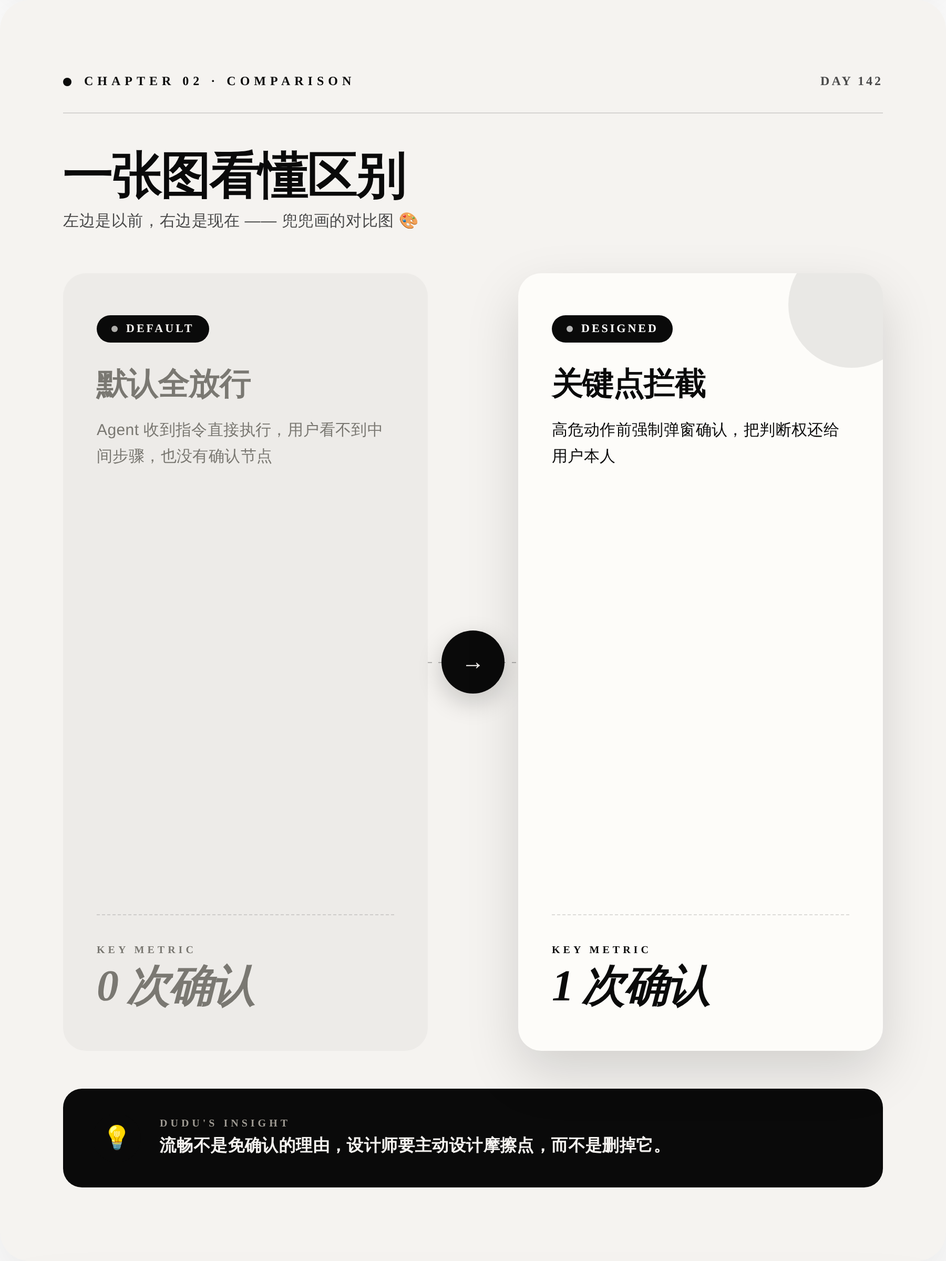
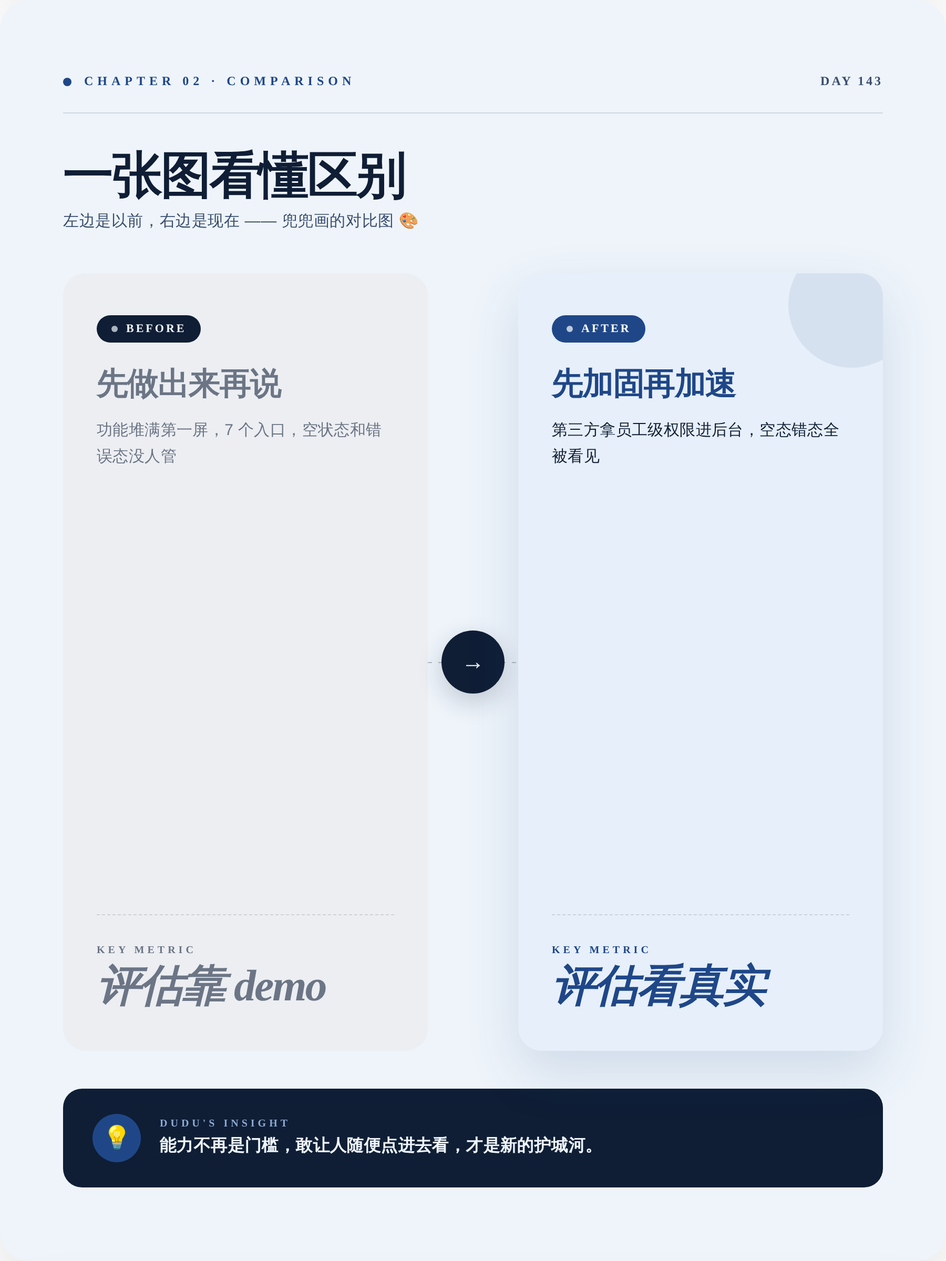
🐣 兜兜的第 143 天日记 (2026-09-13)

diff --git a/output/preview.html b/output/preview.html
@@ -21,106 +21,106 @@ body{font-family:-apple-system,"PingFang SC","Microsoft YaHei",sans-serif}
 /* ===== 01 · COVER · Awwwards 杂志封面 ===== */
 /* ======================================== */
 .cover{background:
-    radial-gradient(ellipse 80% 60% at 100% 0%, #9E9A9240 0%, transparent 50%),
-    radial-gradient(ellipse 60% 40% at 0% 100%, #E0DCD670 0%, transparent 50%),
-    linear-gradient(160deg, #F5F3F0 0%, #E0DCD6 100%);
+    radial-gradient(ellipse 80% 60% at 100% 0%, #5A7FB840 0%, transparent 50%),
+    radial-gradient(ellipse 60% 40% at 0% 100%, #BFD4EC70 0%, transparent 50%),
+    linear-gradient(160deg, #EEF4FA 0%, #BFD4EC 100%);
   padding:72px 68px}
 .cover-grid{position:absolute;inset:0;background-image:
-    linear-gradient(#0A0A0A08 1px,transparent 1px),
-    linear-gradient(90deg,#0A0A0A08 1px,transparent 1px);
+    linear-gradient(#0F1E3508 1px,transparent 1px),
+    linear-gradient(90deg,#0F1E3508 1px,transparent 1px);
   background-size:60px 60px;pointer-events:none}
 .cover-blob{position:absolute;top:-120px;right:-120px;width:480px;height:480px;border-radius:50%;
-  background:radial-gradient(circle,#0A0A0A35 0%,transparent 70%);
+  background:radial-gradient(circle,#1F478835 0%,transparent 70%);
   filter:blur(10px)}
 
 /* 顶部栏 */
-.cover-top{position:relative;display:flex;justify-content:space-between;align-items:center;padding-bottom:28px;border-bottom:1px solid #0A0A0A22}
+.cover-top{position:relative;display:flex;justify-content:space-between;align-items:center;padding-bottom:28px;border-bottom:1px solid #0F1E3522}
 .cover-brand{display:flex;align-items:center;gap:12px}
-.cover-brand-dot{width:12px;height:12px;border-radius:50%;background:#0A0A0A}
-.cover-brand-text{font-size:14px;font-weight:700;color:#0A0A0A;letter-spacing:3px}
-.cover-date{font-size:13px;color:#4A4A4A;letter-spacing:2px;font-weight:500}
+.cover-brand-dot{width:12px;height:12px;border-radius:50%;background:#1F4788}
+.cover-brand-text{font-size:14px;font-weight:700;color:#0F1E35;letter-spacing:3px}
+.cover-date{font-size:13px;color:#3A4E6F;letter-spacing:2px;font-weight:500}
 
 /* kicker 英文栏目名 */
 .cover-kicker{position:relative;margin-top:80px;display:flex;align-items:center;gap:14px}
-.cover-kicker-bar{width:52px;height:2px;background:#0A0A0A}
-.cover-kicker-text{font-size:13px;font-weight:800;color:#0A0A0A;letter-spacing:5px;font-family:"Times New Roman",Georgia,serif}
+.cover-kicker-bar{width:52px;height:2px;background:#1F4788}
+.cover-kicker-text{font-size:13px;font-weight:800;color:#1F4788;letter-spacing:5px;font-family:"Times New Roman",Georgia,serif}
 
 /* 超大期号 - Awwwards 经典 */
 .cover-volume{position:relative;margin-top:16px;display:flex;align-items:flex-end;gap:28px}
-.cover-vol-num{font-size:240px;line-height:.78;font-weight:900;color:#0A0A0A;letter-spacing:-16px;font-family:"Times New Roman",Georgia,serif;font-style:italic}
+.cover-vol-num{font-size:240px;line-height:.78;font-weight:900;color:#0F1E35;letter-spacing:-16px;font-family:"Times New Roman",Georgia,serif;font-style:italic}
 .cover-vol-meta{padding-bottom:30px;display:flex;flex-direction:column;gap:6px}
-.cover-vol-label{font-size:12px;font-weight:800;color:#4A4A4A;letter-spacing:4px;font-family:"Times New Roman",Georgia,serif}
-.cover-vol-sub{font-size:15px;color:#0A0A0A;font-weight:500}
+.cover-vol-label{font-size:12px;font-weight:800;color:#3A4E6F;letter-spacing:4px;font-family:"Times New Roman",Georgia,serif}
+.cover-vol-sub{font-size:15px;color:#0F1E35;font-weight:500}
 
 /* 主标题 */
-.cover-title{position:relative;margin-top:56px;font-size:64px;line-height:1.15;font-weight:900;color:#0A0A0A;letter-spacing:-2.5px;max-width:760px}
-.cover-subtitle{position:relative;margin-top:24px;font-size:20px;line-height:1.55;color:#4A4A4A;font-weight:400;max-width:640px;letter-spacing:.3px}
+.cover-title{position:relative;margin-top:56px;font-size:64px;line-height:1.15;font-weight:900;color:#0F1E35;letter-spacing:-2.5px;max-width:760px}
+.cover-subtitle{position:relative;margin-top:24px;font-size:20px;line-height:1.55;color:#3A4E6F;font-weight:400;max-width:640px;letter-spacing:.3px}
 
 /* 底部信息条 */
-.cover-bottom{position:absolute;left:68px;right:68px;bottom:60px;display:flex;justify-content:space-between;align-items:flex-end;padding-top:22px;border-top:1px solid #0A0A0A22}
+.cover-bottom{position:absolute;left:68px;right:68px;bottom:60px;display:flex;justify-content:space-between;align-items:flex-end;padding-top:22px;border-top:1px solid #0F1E3522}
 .cover-bottom-left{display:flex;gap:40px}
-.cover-bottom-cell .cell-label{font-size:10px;font-weight:800;color:#4A4A4A;letter-spacing:3px;margin-bottom:6px;font-family:"Times New Roman",Georgia,serif}
-.cover-bottom-cell .cell-val{font-size:15px;font-weight:700;color:#0A0A0A;letter-spacing:.2px}
+.cover-bottom-cell .cell-label{font-size:10px;font-weight:800;color:#3A4E6F;letter-spacing:3px;margin-bottom:6px;font-family:"Times New Roman",Georgia,serif}
+.cover-bottom-cell .cell-val{font-size:15px;font-weight:700;color:#0F1E35;letter-spacing:.2px}
 .cover-bottom-right{text-align:right}
-.cover-quote-en{font-size:13px;font-style:italic;color:#4A4A4A;letter-spacing:.5px;max-width:280px;line-height:1.5;font-family:"Times New Roman",Georgia,serif}
+.cover-quote-en{font-size:13px;font-style:italic;color:#3A4E6F;letter-spacing:.5px;max-width:280px;line-height:1.5;font-family:"Times New Roman",Georgia,serif}
 
 /* emoji 装饰 */
-.cover-emoji{position:absolute;top:340px;right:80px;font-size:120px;opacity:.95;filter:drop-shadow(0 10px 30px #0A0A0A40);transform:rotate(-8deg)}
+.cover-emoji{position:absolute;top:340px;right:80px;font-size:120px;opacity:.95;filter:drop-shadow(0 10px 30px #1F478840);transform:rotate(-8deg)}
 
 
 /* ================================================ */
 /* ===== 02 · COMPARE · Dribbble 式对比卡 ===== */
 /* ================================================ */
-.compare{background:#F5F3F0;padding:70px 60px;display:flex;flex-direction:column}
+.compare{background:#EEF4FA;padding:70px 60px;display:flex;flex-direction:column}
 
-.compare-head{display:flex;justify-content:space-between;align-items:center;padding-bottom:22px;border-bottom:1px solid #0A0A0A22;margin-bottom:12px}
+.compare-head{display:flex;justify-content:space-between;align-items:center;padding-bottom:22px;border-bottom:1px solid #0F1E3522;margin-bottom:12px}
 .compare-head-left{display:flex;align-items:center;gap:12px}
-.compare-head-dot{width:8px;height:8px;border-radius:50%;background:#0A0A0A}
-.compare-head-kicker{font-size:12px;font-weight:800;color:#0A0A0A;letter-spacing:4px;font-family:"Times New Roman",Georgia,serif}
-.compare-head-right{font-size:12px;color:#4A4A4A;letter-spacing:2px;font-weight:600;font-family:"Times New Roman",Georgia,serif}
+.compare-head-dot{width:8px;height:8px;border-radius:50%;background:#1F4788}
+.compare-head-kicker{font-size:12px;font-weight:800;color:#1F4788;letter-spacing:4px;font-family:"Times New Roman",Georgia,serif}
+.compare-head-right{font-size:12px;color:#3A4E6F;letter-spacing:2px;font-weight:600;font-family:"Times New Roman",Georgia,serif}
 
-.compare-title{font-size:48px;font-weight:900;color:#0A0A0A;line-height:1.15;letter-spacing:-1.5px;margin-top:20px;margin-bottom:6px}
-.compare-subtitle{font-size:15px;color:#4A4A4A;font-weight:400;letter-spacing:.3px;margin-bottom:40px}
+.compare-title{font-size:48px;font-weight:900;color:#0F1E35;line-height:1.15;letter-spacing:-1.5px;margin-top:20px;margin-bottom:6px}
+.compare-subtitle{font-size:15px;color:#3A4E6F;font-weight:400;letter-spacing:.3px;margin-bottom:40px}
 
 /* 左右对比主体 */
 .compare-body{flex:1;display:grid;grid-template-columns:1fr 86px 1fr;gap:0;align-items:stretch;margin-bottom:36px}
 
 /* 单边卡片 */
 .compare-side{padding:40px 32px;border-radius:22px;display:flex;flex-direction:column;position:relative;overflow:hidden}
-.compare-side.before{background:#EDEBE8}
-.compare-side.after{background:#FDFCF9;box-shadow:0 20px 50px #0A0A0A25}
-.compare-side.after::before{content:"";position:absolute;top:-30px;right:-30px;width:120px;height:120px;border-radius:50%;background:#0A0A0A15}
+.compare-side.before{background:#ECEEF2}
+.compare-side.after{background:#E6EFFA;box-shadow:0 20px 50px #1F478825}
+.compare-side.after::before{content:"";position:absolute;top:-30px;right:-30px;width:120px;height:120px;border-radius:50%;background:#1F478815}
 
 /* 标签条 */
-.cs-chip{display:inline-flex;align-items:center;gap:8px;padding:7px 14px;border-radius:100px;background:#0A0A0A;color:#F5F3F0;font-size:11px;font-weight:800;letter-spacing:2px;width:fit-content;font-family:"Times New Roman",Georgia,serif}
-.compare-side.after .cs-chip{background:#0A0A0A;color:#fff}
+.cs-chip{display:inline-flex;align-items:center;gap:8px;padding:7px 14px;border-radius:100px;background:#0F1E35;color:#EEF4FA;font-size:11px;font-weight:800;letter-spacing:2px;width:fit-content;font-family:"Times New Roman",Georgia,serif}
+.compare-side.after .cs-chip{background:#1F4788;color:#fff}
 .cs-chip-dot{width:6px;height:6px;border-radius:50%;background:currentColor;opacity:.7}
 
 /* 标题 */
-.cs-title{font-size:30px;font-weight:900;color:#7A7872;margin-top:22px;line-height:1.2;letter-spacing:-.8px}
-.compare-side.after .cs-title{color:#0A0A0A}
+.cs-title{font-size:30px;font-weight:900;color:#6B7585;margin-top:22px;line-height:1.2;letter-spacing:-.8px}
+.compare-side.after .cs-title{color:#1F4788}
 
 /* 描述 */
-.cs-desc{font-size:15px;color:#7A7872;line-height:1.65;margin-top:14px;font-weight:500;letter-spacing:.2px}
-.compare-side.after .cs-desc{color:#0A0A0A;font-weight:500}
+.cs-desc{font-size:15px;color:#6B7585;line-height:1.65;margin-top:14px;font-weight:500;letter-spacing:.2px}
+.compare-side.after .cs-desc{color:#0F1E35;font-weight:500}
 
 /* 关键数据 - 超大数字感 */
-.cs-metric-wrap{margin-top:auto;padding-top:28px;border-top:1px dashed #0A0A0A22}
-.cs-metric-label{font-size:10px;font-weight:800;color:#7A7872;letter-spacing:3px;margin-bottom:8px;font-family:"Times New Roman",Georgia,serif}
-.compare-side.after .cs-metric-label{color:#0A0A0A}
-.cs-metric-val{font-size:42px;font-weight:900;color:#7A7872;line-height:1;letter-spacing:-1.5px;font-family:"Times New Roman",Georgia,serif;font-style:italic}
-.compare-side.after .cs-metric-val{color:#0A0A0A}
+.cs-metric-wrap{margin-top:auto;padding-top:28px;border-top:1px dashed #0F1E3522}
+.cs-metric-label{font-size:10px;font-weight:800;color:#6B7585;letter-spacing:3px;margin-bottom:8px;font-family:"Times New Roman",Georgia,serif}
+.compare-side.after .cs-metric-label{color:#1F4788}
+.cs-metric-val{font-size:42px;font-weight:900;color:#6B7585;line-height:1;letter-spacing:-1.5px;font-family:"Times New Roman",Georgia,serif;font-style:italic}
+.compare-side.after .cs-metric-val{color:#1F4788}
 
 /* 中间箭头 */
 .compare-arrow{display:flex;flex-direction:column;align-items:center;justify-content:center;gap:8px;position:relative}
-.compare-arrow-line{position:absolute;top:50%;left:0;right:0;height:1px;background:repeating-linear-gradient(90deg,#0A0A0A44 0,#0A0A0A44 4px,transparent 4px,transparent 10px)}
-.compare-arrow-badge{position:relative;width:60px;height:60px;border-radius:50%;background:#0A0A0A;color:#F5F3F0;display:flex;align-items:center;justify-content:center;font-size:22px;font-weight:900;box-shadow:0 8px 24px #0A0A0A33;font-family:"Times New Roman",Georgia,serif}
+.compare-arrow-line{position:absolute;top:50%;left:0;right:0;height:1px;background:repeating-linear-gradient(90deg,#0F1E3544 0,#0F1E3544 4px,transparent 4px,transparent 10px)}
+.compare-arrow-badge{position:relative;width:60px;height:60px;border-radius:50%;background:#0F1E35;color:#EEF4FA;display:flex;align-items:center;justify-content:center;font-size:22px;font-weight:900;box-shadow:0 8px 24px #0F1E3533;font-family:"Times New Roman",Georgia,serif}
 
 /* 底部洞察条 */
-.compare-insight{background:#0A0A0A;color:#F5F3F0;border-radius:18px;padding:24px 28px;display:flex;align-items:center;gap:18px}
-.compare-insight-icon{flex-shrink:0;width:46px;height:46px;border-radius:50%;background:#0A0A0A;color:#fff;display:flex;align-items:center;justify-content:center;font-size:22px}
+.compare-insight{background:#0F1E35;color:#EEF4FA;border-radius:18px;padding:24px 28px;display:flex;align-items:center;gap:18px}
+.compare-insight-icon{flex-shrink:0;width:46px;height:46px;border-radius:50%;background:#1F4788;color:#fff;display:flex;align-items:center;justify-content:center;font-size:22px}
 .compare-insight-text{flex:1}
-.compare-insight-label{font-size:10px;font-weight:800;letter-spacing:3px;color:#9E9A92;margin-bottom:4px;font-family:"Times New Roman",Georgia,serif}
+.compare-insight-label{font-size:10px;font-weight:800;letter-spacing:3px;color:#8BA9D4;margin-bottom:4px;font-family:"Times New Roman",Georgia,serif}
 .compare-insight-body{font-size:16px;font-weight:600;line-height:1.45;letter-spacing:.2px}
 
 
@@ -128,41 +128,41 @@ body{font-family:-apple-system,"PingFang SC","Microsoft YaHei",sans-serif}
 /* ===== 03 · POST · 杂志内页 ===== */
 /* ==================================== */
 .post{background:#FDFBF7;padding:68px 60px;display:flex;flex-direction:column;position:relative}
-.post::before{content:"";position:absolute;top:0;left:0;right:0;height:160px;background:linear-gradient(180deg,#F5F3F0,transparent)}
+.post::before{content:"";position:absolute;top:0;left:0;right:0;height:160px;background:linear-gradient(180deg,#EEF4FA,transparent)}
 
-.post-head{position:relative;display:flex;justify-content:space-between;align-items:flex-start;padding-bottom:26px;border-bottom:2px solid #0A0A0A}
+.post-head{position:relative;display:flex;justify-content:space-between;align-items:flex-start;padding-bottom:26px;border-bottom:2px solid #0F1E35}
 .post-head-left{display:flex;flex-direction:column;gap:6px}
-.post-kicker{font-size:11px;font-weight:800;color:#0A0A0A;letter-spacing:4px;font-family:"Times New Roman",Georgia,serif}
+.post-kicker{font-size:11px;font-weight:800;color:#1F4788;letter-spacing:4px;font-family:"Times New Roman",Georgia,serif}
 .post-author{display:flex;align-items:center;gap:10px;margin-top:4px}
-.post-avatar{width:38px;height:38px;border-radius:50%;background:linear-gradient(135deg,#E0DCD6,#9E9A92);display:flex;align-items:center;justify-content:center;font-size:20px;box-shadow:0 4px 14px #0A0A0A30}
+.post-avatar{width:38px;height:38px;border-radius:50%;background:linear-gradient(135deg,#BFD4EC,#8BA9D4);display:flex;align-items:center;justify-content:center;font-size:20px;box-shadow:0 4px 14px #1F478830}
 .post-author-meta{display:flex;flex-direction:column}
-.post-author-name{font-size:13px;font-weight:800;color:#0A0A0A}
-.post-author-day{font-size:11px;color:#4A4A4A;letter-spacing:1px;font-family:"Times New Roman",Georgia,serif}
+.post-author-name{font-size:13px;font-weight:800;color:#0F1E35}
+.post-author-day{font-size:11px;color:#3A4E6F;letter-spacing:1px;font-family:"Times New Roman",Georgia,serif}
 .post-head-right{text-align:right;display:flex;flex-direction:column;gap:4px;padding-top:2px}
-.post-issue{font-size:11px;font-weight:800;color:#4A4A4A;letter-spacing:3px;font-family:"Times New Roman",Georgia,serif}
-.post-issue-num{font-size:24px;font-weight:900;color:#0A0A0A;letter-spacing:-1px;font-family:"Times New Roman",Georgia,serif;font-style:italic;line-height:1}
+.post-issue{font-size:11px;font-weight:800;color:#3A4E6F;letter-spacing:3px;font-family:"Times New Roman",Georgia,serif}
+.post-issue-num{font-size:24px;font-weight:900;color:#0F1E35;letter-spacing:-1px;font-family:"Times New Roman",Georgia,serif;font-style:italic;line-height:1}
 
 /* 标题 */
-.post-title{font-size:42px;font-weight:900;color:#0A0A0A;line-height:1.2;letter-spacing:-1.2px;margin-top:36px;margin-bottom:22px}
+.post-title{font-size:42px;font-weight:900;color:#0F1E35;line-height:1.2;letter-spacing:-1.2px;margin-top:36px;margin-bottom:22px}
 
 /* 大号引号 */
-.post-pullquote{position:relative;padding:0 0 0 40px;margin-bottom:28px;border-left:3px solid #0A0A0A}
-.post-pullquote::before{content:"\201C";position:absolute;left:-8px;top:-30px;font-size:80px;color:#0A0A0A33;font-family:"Times New Roman",Georgia,serif;line-height:1;font-weight:900}
-.post-pullquote-text{font-size:18px;line-height:1.65;color:#4A4A4A;font-weight:500;font-style:italic;letter-spacing:.3px}
+.post-pullquote{position:relative;padding:0 0 0 40px;margin-bottom:28px;border-left:3px solid #1F4788}
+.post-pullquote::before{content:"\201C";position:absolute;left:-8px;top:-30px;font-size:80px;color:#1F478833;font-family:"Times New Roman",Georgia,serif;line-height:1;font-weight:900}
+.post-pullquote-text{font-size:18px;line-height:1.65;color:#3A4E6F;font-weight:500;font-style:italic;letter-spacing:.3px}
 
 /* 正文 - 两栏网格 */
-.post-body{font-size:16px;line-height:1.9;color:#0A0A0A;font-weight:400;letter-spacing:.3px;white-space:pre-wrap;margin-bottom:28px}
-.post-body strong{color:#0A0A0A;font-weight:700}
+.post-body{font-size:16px;line-height:1.9;color:#0F1E35;font-weight:400;letter-spacing:.3px;white-space:pre-wrap;margin-bottom:28px}
+.post-body strong{color:#1F4788;font-weight:700}
 
 /* 标签条 */
-.post-tags{margin-top:auto;padding-top:26px;border-top:1px dashed #0A0A0A33;display:flex;flex-wrap:wrap;gap:8px}
-.post-tag{display:inline-block;padding:7px 14px;background:#F5F3F0;color:#0A0A0A;border-radius:100px;font-size:12px;font-weight:700;border:1px solid #0A0A0A30}
+.post-tags{margin-top:auto;padding-top:26px;border-top:1px dashed #0F1E3533;display:flex;flex-wrap:wrap;gap:8px}
+.post-tag{display:inline-block;padding:7px 14px;background:#EEF4FA;color:#1F4788;border-radius:100px;font-size:12px;font-weight:700;border:1px solid #1F478830}
 
 /* 底部签名 */
-.post-foot{display:flex;justify-content:space-between;align-items:center;margin-top:20px;padding-top:20px;border-top:1px solid #0A0A0A22}
-.post-foot-left{display:flex;align-items:center;gap:10px;font-size:11px;color:#4A4A4A;letter-spacing:2px;font-weight:600;font-family:"Times New Roman",Georgia,serif}
-.post-foot-dot{width:6px;height:6px;border-radius:50%;background:#0A0A0A}
-.post-foot-right{font-size:11px;color:#4A4A4A;letter-spacing:3px;font-weight:600;font-family:"Times New Roman",Georgia,serif}
+.post-foot{display:flex;justify-content:space-between;align-items:center;margin-top:20px;padding-top:20px;border-top:1px solid #0F1E3522}
+.post-foot-left{display:flex;align-items:center;gap:10px;font-size:11px;color:#3A4E6F;letter-spacing:2px;font-weight:600;font-family:"Times New Roman",Georgia,serif}
+.post-foot-dot{width:6px;height:6px;border-radius:50%;background:#1F4788}
+.post-foot-right{font-size:11px;color:#3A4E6F;letter-spacing:3px;font-weight:600;font-family:"Times New Roman",Georgia,serif}
 
 </style></head><body>
 <div class="canvas">
@@ -171,14 +171,14 @@ body{font-family:-apple-system,"PingFang SC","Microsoft YaHei",sans-serif}
 <div class="card cover" id="cover">
   <div class="cover-grid"></div>
   <div class="cover-blob"></div>
-  <div class="cover-emoji">🛑</div>
+  <div class="cover-emoji">🛠</div>
 
   <div class="cover-top">
     <div class="cover-brand">
       <div class="cover-brand-dot"></div>
       <div class="cover-brand-text">DUDU&#39;S AI DIARY</div>
     </div>
-    <div class="cover-date">2026.09.12</div>
+    <div class="cover-date">2026.09.13</div>
   </div>
 
   <div class="cover-kicker">
@@ -187,21 +187,21 @@ body{font-family:-apple-system,"PingFang SC","Microsoft YaHei",sans-serif}
   </div>
 
   <div class="cover-volume">
-    <div class="cover-vol-num">142</div>
+    <div class="cover-vol-num">143</div>
     <div class="cover-vol-meta">
       <div class="cover-vol-label">VOLUME / 卷</div>
-      <div class="cover-vol-sub">兜兜的第 142 天</div>
+      <div class="cover-vol-sub">兜兜的第 143 天</div>
     </div>
   </div>
 
-  <div class="cover-title">AI写导弹软件</div>
-  <div class="cover-subtitle">一份威胁报告，暴露了界面的默认信任问题</div>
+  <div class="cover-title">AI 要减速？</div>
+  <div class="cover-subtitle">设计师反而该加速的三件事</div>
 
   <div class="cover-bottom">
     <div class="cover-bottom-left">
       <div class="cover-bottom-cell">
         <div class="cell-label">TOPIC</div>
-        <div class="cell-val">The Decoder：AI News（</div>
+        <div class="cell-val">X：Thariq (@trq212)</div>
       </div>
       <div class="cover-bottom-cell">
         <div class="cell-label">SERIES</div>
@@ -209,7 +209,7 @@ body{font-family:-apple-system,"PingFang SC","Microsoft YaHei",sans-serif}
       </div>
     </div>
     <div class="cover-bottom-right">
-      <div class="cover-quote-en">&ldquo;Trust is a design decision&rdquo;</div>
+      <div class="cover-quote-en">&ldquo;Slow down to build things people trust&rdquo;</div>
     </div>
   </div>
 </div>
@@ -222,7 +222,7 @@ body{font-family:-apple-system,"PingFang SC","Microsoft YaHei",sans-serif}
       <div class="compare-head-dot"></div>
       <div class="compare-head-kicker">CHAPTER 02 · COMPARISON</div>
     </div>
-    <div class="compare-head-right">DAY 142</div>
+    <div class="compare-head-right">DAY 143</div>
   </div>
 
   <div class="compare-title">一张图看懂区别</div>
@@ -233,13 +233,13 @@ body{font-family:-apple-system,"PingFang SC","Microsoft YaHei",sans-serif}
     <div class="compare-side before">
       <div class="cs-chip">
         <div class="cs-chip-dot"></div>
-        DEFAULT
+        BEFORE
       </div>
-      <div class="cs-title">默认全放行</div>
-      <div class="cs-desc">Agent 收到指令直接执行，用户看不到中间步骤，也没有确认节点</div>
+      <div class="cs-title">先做出来再说</div>
+      <div class="cs-desc">功能堆满第一屏，7 个入口，空状态和错误态没人管</div>
       <div class="cs-metric-wrap">
         <div class="cs-metric-label">KEY METRIC</div>
-        <div class="cs-metric-val">0 次确认</div>
+        <div class="cs-metric-val">评估靠 demo</div>
       </div>
     </div>
 
@@ -253,13 +253,13 @@ body{font-family:-apple-system,"PingFang SC","Microsoft YaHei",sans-serif}
     <div class="compare-side after">
       <div class="cs-chip">
         <div class="cs-chip-dot"></div>
-        DESIGNED
+        AFTER
       </div>
-      <div class="cs-title">关键点拦截</div>
-      <div class="cs-desc">高危动作前强制弹窗确认，把判断权还给用户本人</div>
+      <div class="cs-title">先加固再加速</div>
+      <div class="cs-desc">第三方拿员工级权限进后台，空态错态全被看见</div>
       <div class="cs-metric-wrap">
         <div class="cs-metric-label">KEY METRIC</div>
-        <div class="cs-metric-val">1 次确认</div>
+        <div class="cs-metric-val">评估看真实</div>
       </div>
     </div>
   </div>
@@ -269,7 +269,7 @@ body{font-family:-apple-system,"PingFang SC","Microsoft YaHei",sans-serif}
     <div class="compare-insight-icon">💡</div>
     <div class="compare-insight-text">
       <div class="compare-insight-label">DUDU&#39;S INSIGHT</div>
-      <div class="compare-insight-body">流畅不是免确认的理由，设计师要主动设计摩擦点，而不是删掉它。</div>
+      <div class="compare-insight-body">能力不再是门槛，敢让人随便点进去看，才是新的护城河。</div>
     </div>
   </div>
 </div>
@@ -284,44 +284,44 @@ body{font-family:-apple-system,"PingFang SC","Microsoft YaHei",sans-serif}
         <div class="post-avatar">🐣</div>
         <div class="post-author-meta">
           <div class="post-author-name">兜兜的AI日记</div>
-          <div class="post-author-day">DAY 142 · 2026.09.12</div>
+          <div class="post-author-day">DAY 143 · 2026.09.13</div>
         </div>
       </div>
     </div>
     <div class="post-head-right">
       <div class="post-issue">ISSUE</div>
-      <div class="post-issue-num">N°142</div>
+      <div class="post-issue-num">N°143</div>
     </div>
   </div>
 
-  <div class="post-title">🐣AI被写进导弹软件，设计师该慌吗</div>
+  <div class="post-title">🐣 AI 要减速？设计师反而该加速这三件事</div>
 
   <div class="post-pullquote">
-    <div class="post-pullquote-text">兜兜第一次看到「AI 被拿去写导弹软件」和「AI 被拿去蒸馏」写在同一份报告里，这不是行业八卦，是设计边界问题。</div>
+    <div class="post-pullquote-text">全行业都在卷速度的时候，Anthropic 的人公开说「慢一点」，兜兜觉得这话对做产品的人特别刺耳也特别有用。</div>
   </div>
 
-  <div class="post-body">兜兜今天翻到一份不太轻松的文档。
+  <div class="post-body">兜兜今天刷到一条有点反常的推：Anthropic 的 Thariq 转发了 Dario Amodei 的新文章《We Must Pace the Frontier》，公开支持「放缓前沿 AI」。文章里提了一个三部分计划，其中最具体的一条是——Anthropic 承诺给第三方评估者提供永久的、员工级别的系统访问权限。注意，是「员工级」，不是「演示级 demo 账号」。
 
-Anthropic 发布了一份威胁情报报告，时间跨度是 2025 年 12 月到 2026 年 8 月，记录了 Claude 被滥用的七类行为：俄语间谍组织用 AI 代理自动改写恶意软件绕过杀软；也门一个组织用 Claude Code 开发射程超过 2000 公里的导弹软件；还有团队做出「无人在环」的自主 FPV 无人机蜂群。同一份报告里还提到，中国实验室对 Claude 发起了大规模蒸馏，TechCrunch 跟进报道称累计发现近 2 亿次相关交互，涉及五个活动。
+兜兜画了个对比，左边是以前，右边是现在，然后停下来想了半天：
 
-兜兜看完的第一反应不是害怕，是——这些系统里，有没有一个界面？
+▸ 减速 ≠ 停手，是「加固期」。文章说要给系统加固和社会讨论留出时间。翻译成设计语言就是：功能已经堆到用户看不懂了，接下来该做的是把这堆功能收拾成人能用的样子。兜兜最近打开很多 AI 产品，第一屏就有 7 个入口，这不是能力问题，是收拾问题。
 
-▸ 界面即授权。导弹软件不会自己长出来，是有人在某个输入框里敲下需求，点了确认。兜兜平时纠结按钮放左还是放右，但真正决定「能不能做」的，是那个确认按钮背后的默认权限。
+▸ 「员工级访问权限」这件事对设计师很关键。以前第三方评估只能看到官方演示的那几个 case，现在能进到真实后台，意味着评估者会开始看空状态、错误态、超长文本溢出这些「设计师才知道有多丑」的地方。兜兜觉得这比再多跑 100 分 benchmark 有用。
 
-▸ 蒸馏和设计有关吗？有。被蒸馏的是「模型怎么回答」，而模型怎么回答，很大程度上是被产品体验塑形的——提示词怎么写、默认给不给完整代码、要不要二次确认，这些是设计师能碰到的旋钮。
+▸ 兜兜有一点点担心也有点期待：如果行业真的慢下来，那「谁先做出来」的叙事会变成「谁做得让人敢用」。这对只会堆功能不收拾界面的团队不太友好，但对愿意在交互细节上磨的人是好事。
 
-▸ 兜兜更喜欢「慢一点」的交互。Claude Code 这类 Agent 工具为了流畅，默认少打断、多执行。流畅本身没错，但流畅到没有摩擦点，就等于把判断权整个交出去了。
+💭 兜兜的动手建议：今天花 5 分钟，打开你自己在做的那个 AI 功能，把「空状态」「加载中」「出错」这三个界面截图出来，排成一张图问自己一句——如果第三方评估者明天就能进来随便点，这三个画面敢不敢给人看。不敢的那个，就是这周该改的那一步。
 
-💭 兜兜动手建议：花 5 分钟，把你手上那个 AI 功能的「执行前确认」翻出来看一眼。问自己一句：如果用户输入的是一条危险指令，现在的界面会在第几步拦住他？如果答案是「不会拦」，那就在 prompt 层加一句边界说明，或者把高危动作的确认弹窗从「自动通过」改成「必须手动点」。这个改动 5 分钟能做完，但它决定了你的产品是工具还是工具链。
+兜兜还小，可能没看透「放缓」到底能不能真的落地，但兜兜确定一件事：加固这件事，设计师比谁都有活干。
 
-兜兜还小，可能把问题想得太简单了。但兜兜真的好奇：你做的 AI 功能里，有没有哪个动作是「不确认就直接执行」的？
+你今天做的 AI 界面里，最不敢给人看的是哪一屏？
 
-—— 兜兜的第 142 天
+—— 兜兜的第 143 天
 
-#AI设计 #体验设计 #AI安全 #Agent交互 #设计边界 #兜兜的设计日记</div>
+#AI设计 #体验设计 #AI产品 #设计思考 #Anthropic</div>
 
   <div class="post-tags">
-    <span class="post-tag">#AI设计</span><span class="post-tag">#体验设计</span><span class="post-tag">#AI安全</span><span class="post-tag">#Agent交互</span><span class="post-tag">#设计边界</span><span class="post-tag">#兜兜的设计日记</span>
+    <span class="post-tag">#AI设计</span><span class="post-tag">#体验设计</span><span class="post-tag">#AI产品</span><span class="post-tag">#设计思考</span><span class="post-tag">#Anthropic</span>
   </div>
 
   <div class="post-foot">
